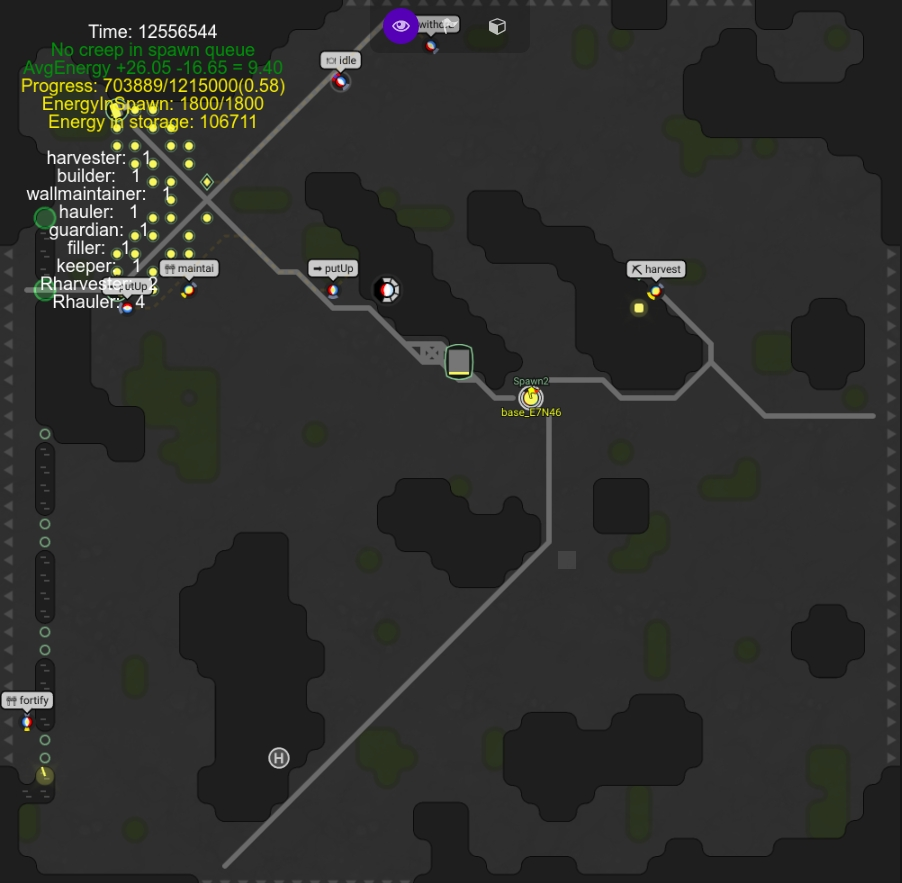
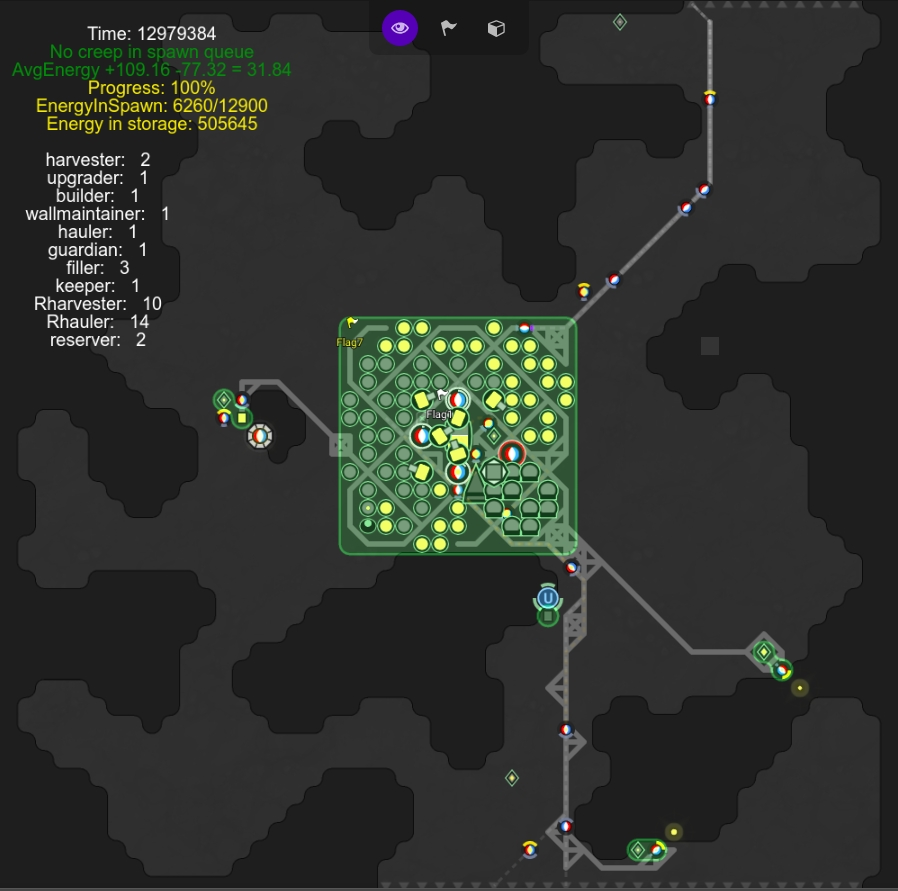
update screenshot of bunker layout

diff --git a/README.md b/README.md
@@ -1,8 +1,8 @@
 # LiveScreep
 
-![Bunker layout in simulation](img/bunker.jpg)
+![Bunker layout in real world](img/realworld.jpg)
 
-Latest Release => `v0.4-Road`
+Latest Release => `v0.5-Bunker`
 
 * Simple room plan system
 * Burn extra energy of storage to controller(more upgrader, bigger upgrader)
